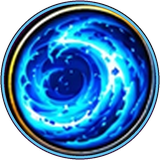
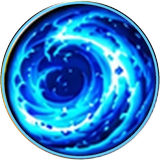
Huy hiệu kỹ năng: nút tròn có sẵn phóng đầy, bỏ viền đôi (7 kỹ năng chủ dự án báo) (#98)
Claude-Session: https://claude.ai/code/session_01NZd8YsZEguGMDtshCzNLjh

diff --git a/tools/skill_medals.py b/tools/skill_medals.py
@@ -63,6 +63,19 @@ def clean(im):
     return im.crop((xs.min(), ys.min(), xs.max() + 1, ys.max() + 1))
 
 
+def largest(im):
+    """Chỉ giữ mảng hình lớn nhất (nút tròn trong tấm vẽ thường dính mẩu nút bên cạnh ở mép)."""
+    a = np.array(im)
+    mask = a[:, :, 3] > 24
+    lab, n = ndimage.label(mask)
+    if n == 0:
+        return im
+    big = 1 + int(np.argmax(ndimage.sum(mask, lab, range(1, n + 1))))
+    a[lab != big] = 0
+    ys, xs = np.nonzero(lab == big)
+    return Image.fromarray(a).crop((xs.min(), ys.min(), xs.max() + 1, ys.max() + 1))
+
+
 def is_round(im):
     """Nút tròn có sẵn: gần vuông và lấp gần kín hình tròn nội tiếp."""
     w, h = im.size
@@ -74,7 +87,7 @@ def is_round(im):
     return a[inside].mean() > 0.88
 
 
-def medal(src, color):
+def medal(src, color, badge=False):
     c = np.array(hexrgb(color), dtype=float)
     S = SIZE
     yy, xx = np.mgrid[:S, :S]
@@ -83,10 +96,12 @@ def medal(src, color):
     t = np.clip(r, 0, 1)[..., None]
     bg = (c * 0.38) * (1 - t) + np.array([14, 10, 24]) * t
     base = Image.fromarray(np.dstack([bg, np.full((S, S), 255)]).astype('uint8'), 'RGBA')
-    art = clean(src)
-    if is_round(art):
-        fit = S
+    core = largest(src) if badge else None
+    if core is not None and is_round(core):
+        # nút tròn có sẵn: phóng 110% để viền tối của nút rơi ra ngoài, chỉ còn 1 viền màu hệ (chủ dự án 23/10 11:09)
+        art, fit = core, int(S * 1.1)
     else:
+        art = clean(src)
         fit = int(S * 0.8)
         glow = Image.new('RGBA', (S, S), (0, 0, 0, 0))
         ImageDraw.Draw(glow).ellipse((S * .22, S * .22, S * .78, S * .78), fill=(*hexrgb(color), 90))
@@ -125,7 +140,7 @@ def main():
             src = erase(src, ERASE[sid])
         color = he.get(s.get('he') or '', {}).get('color', NEUTRAL)
         p = OUT / f'{sid}.png'
-        medal(src, color).save(p, optimize=True)
+        medal(src, color, badge=bool(s.get('icon_url'))).save(p, optimize=True)
         s['medal'] = str(p)
         made.append((sid, p))
     open('data/gameplay.json', 'w').write(json.dumps(gp, ensure_ascii=False, indent=1) + '\n')
